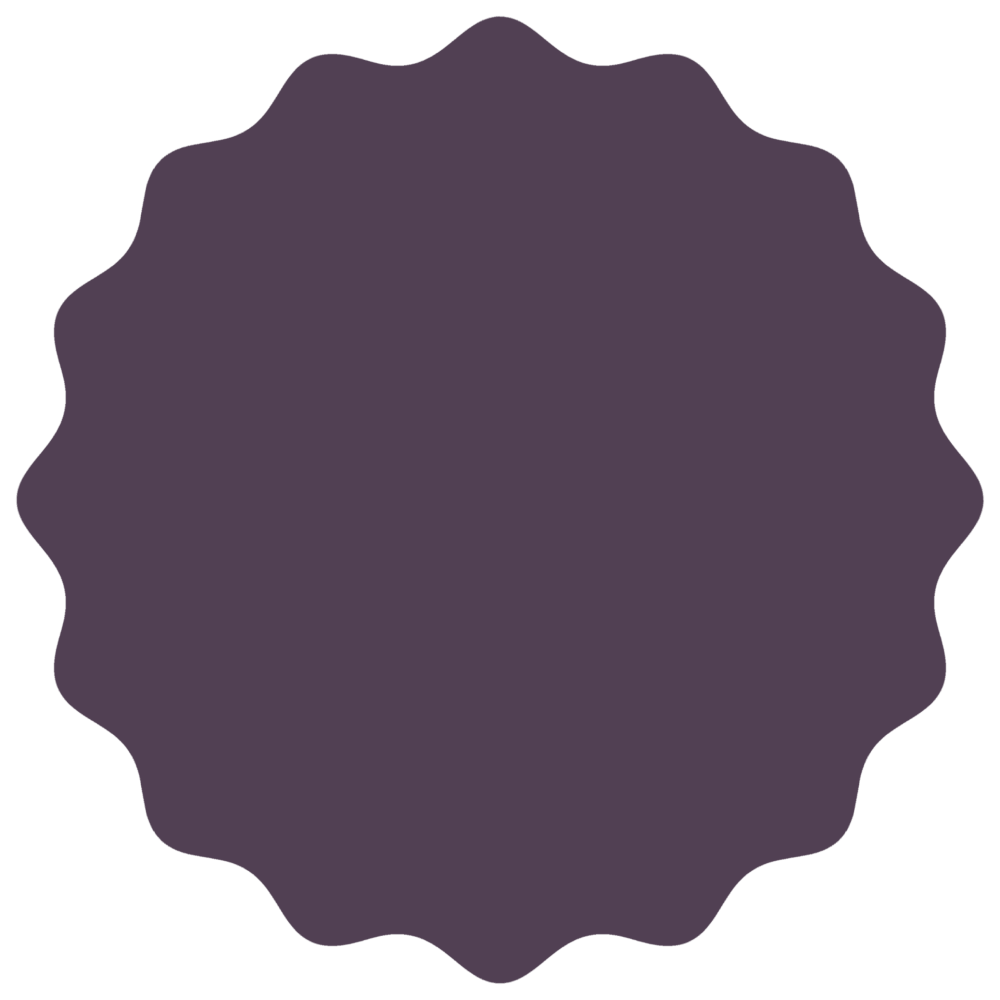
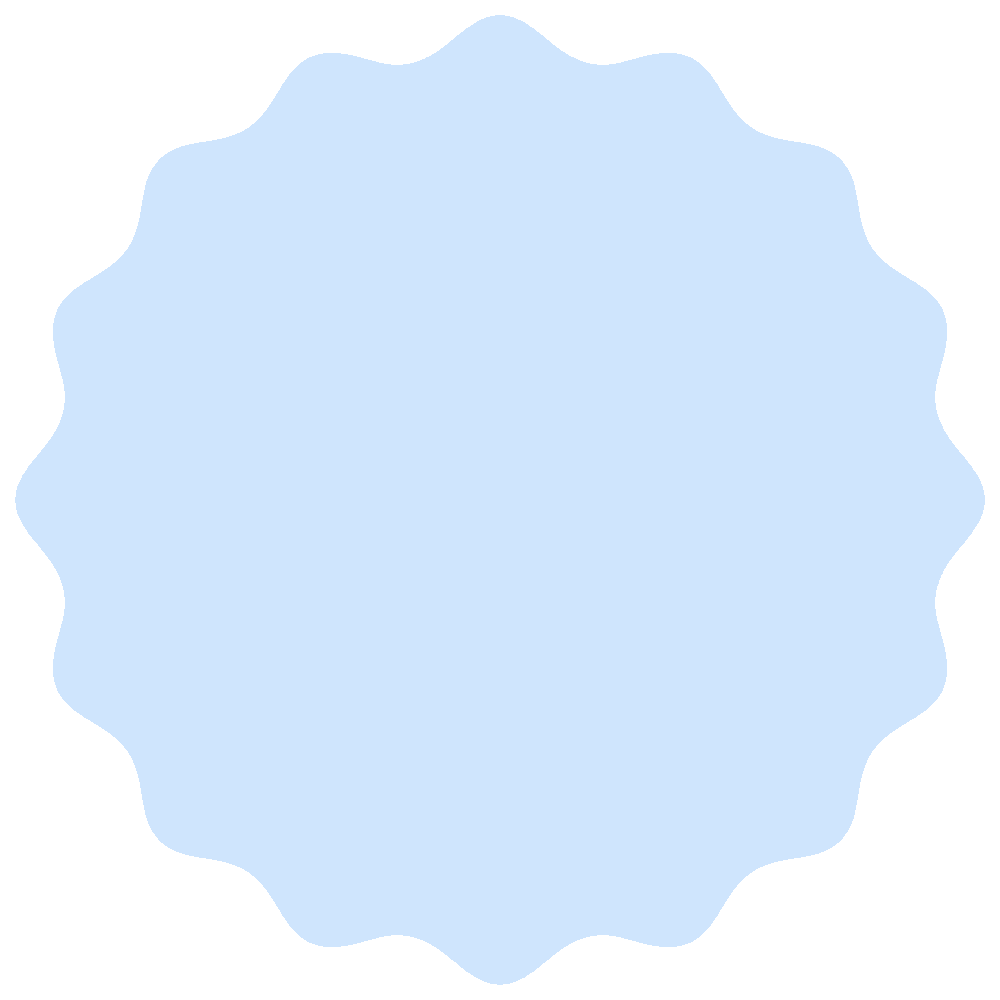
Changing color palette

diff --git a/assets/styles/menu.css b/assets/styles/menu.css
@@ -14,7 +14,7 @@
     width: 85px;
     height: 85px;
     margin: 5% 5% 3%;
-    background-color: #5d3c73;
+    background-color: #CFE5FD;
     border-radius: 25px;
     box-shadow: 3px 5px 20px -5px rgba(0, 0, 0, 0.925);
     justify-items: end;
@@ -59,7 +59,7 @@
     width: 100vh;
     height: 100vh;
     max-width: 1100px;
-    background-color: #5d3c73;
+    background-color: #CFE5FD;
     transform: translateX(100%);
     transition: 0.3s ease-in;
   }
@@ -85,9 +85,9 @@
     width: 70%;
     max-width: 1100px;
     margin: 5% auto;
-    background-color: #5d3c73;
+    background-color: #aad3ff9a;
     border-radius: 50px;
-    box-shadow: 3px 5px 20px -5px rgba(0, 0, 0, 0.925);
+    box-shadow: 3px 5px 10px -5px rgba(0, 0, 0, 0.925);
 
     
   }
@@ -95,15 +95,16 @@
   .navbar_menu {
     display: flex;
     align-items: flex-end;
+    position: relative;
     gap: 50px;
   }
 
 }
 
 .navbar_pixelbox_icon {
+  width: 50px;
   height: 50px;
-  width: 40px;
-  background-image: url(../img/pixelboxicon.png);
+  background-image: url(../img/pixelboxicon.svg);
   background-size: 100% 100%;
 }
 
@@ -113,14 +114,14 @@
   align-items: flex-end;
   position: relative;
   text-decoration: none;
-  color: #d4b8de;
+  color: #074686;
   padding: 5px;
 }
 
 .navbar_menu_text::after {
   content: "";
   position: absolute;
-  background-color: #cfb9de;
+  background-color: #074686;
   height: 5%;
   width: 0%;
   transition: 0.3s;
@@ -136,7 +137,7 @@
 .page_indicator {
   content: "";
   position: absolute;
-  background-color: #cfb9de;
+  background-color: #074686;
   border-radius: 10px;
   width: 55px;
   height: 5%;

diff --git a/assets/styles/section.css b/assets/styles/section.css
@@ -32,10 +32,10 @@
   place-items: center;
   border-radius: 50px;
   padding: 15px 30px;
-  background-color: #5D3C73;
-  box-shadow: 0px 0px 30px rgba(0, 0, 0, 0.582);
+  background-color: #aad3ff9a;
+  box-shadow: 3px 5px 10px -5px rgba(0, 0, 0, 0.925);
   text-decoration: none;
-  color: #D3B9E0;
+  color: #074686;
   font-weight: 700;
   font-size: 1.5rem;
 }

diff --git a/assets/js/menu.js b/assets/js/menu.js
@@ -7,7 +7,7 @@ menuicon.addEventListener("click", () => {
     menumobile.classList.toggle("active");
 });
 
-var tabs_indicator = document.querySelector('.teste');
+var tabs_indicator = document.querySelector('.page_indicator');
 
 var item = document.querySelectorAll('.navbar_menu_text');
 

diff --git a/assets/styles/home.css b/assets/styles/home.css
@@ -5,8 +5,8 @@
 }
 
 body {
-  color: #d4b8de;
-  background: #1f1a20;
+  color: #074686;
+  background: #E4F2FF;
   font-size: 100%;
   font-family: "Poppins", sans-serif;
   font-weight: 500;
@@ -74,5 +74,5 @@ body {
 }
 
 .footer_profile_text {
-  color: #d4b8de;
+  color: #074686;
 }
